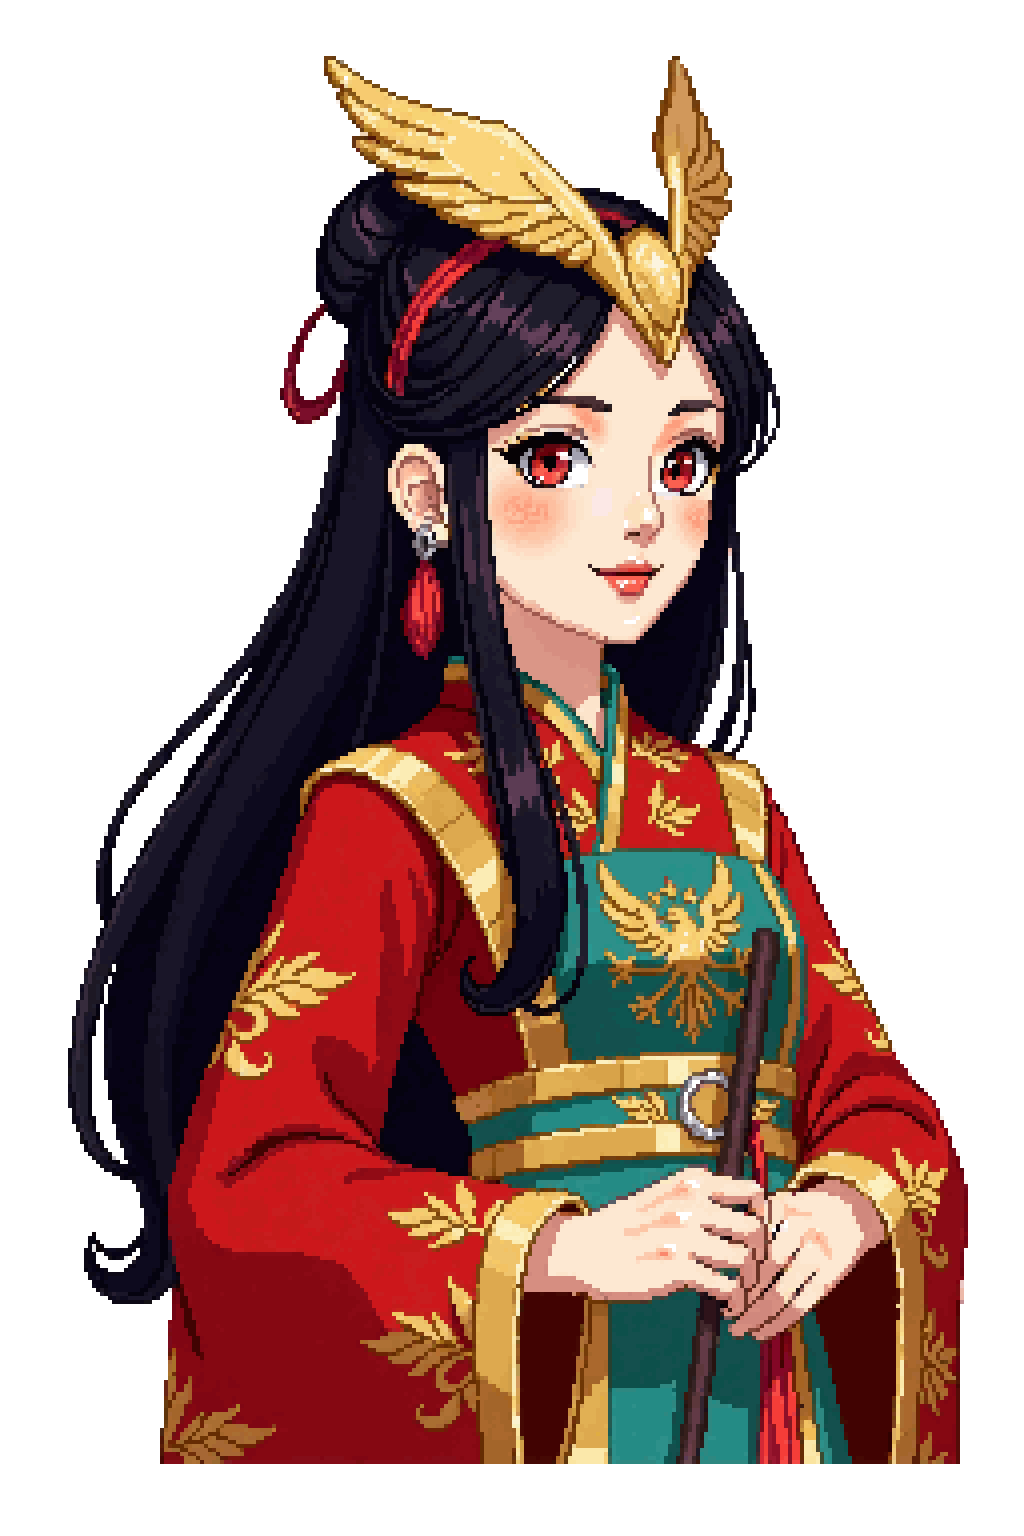
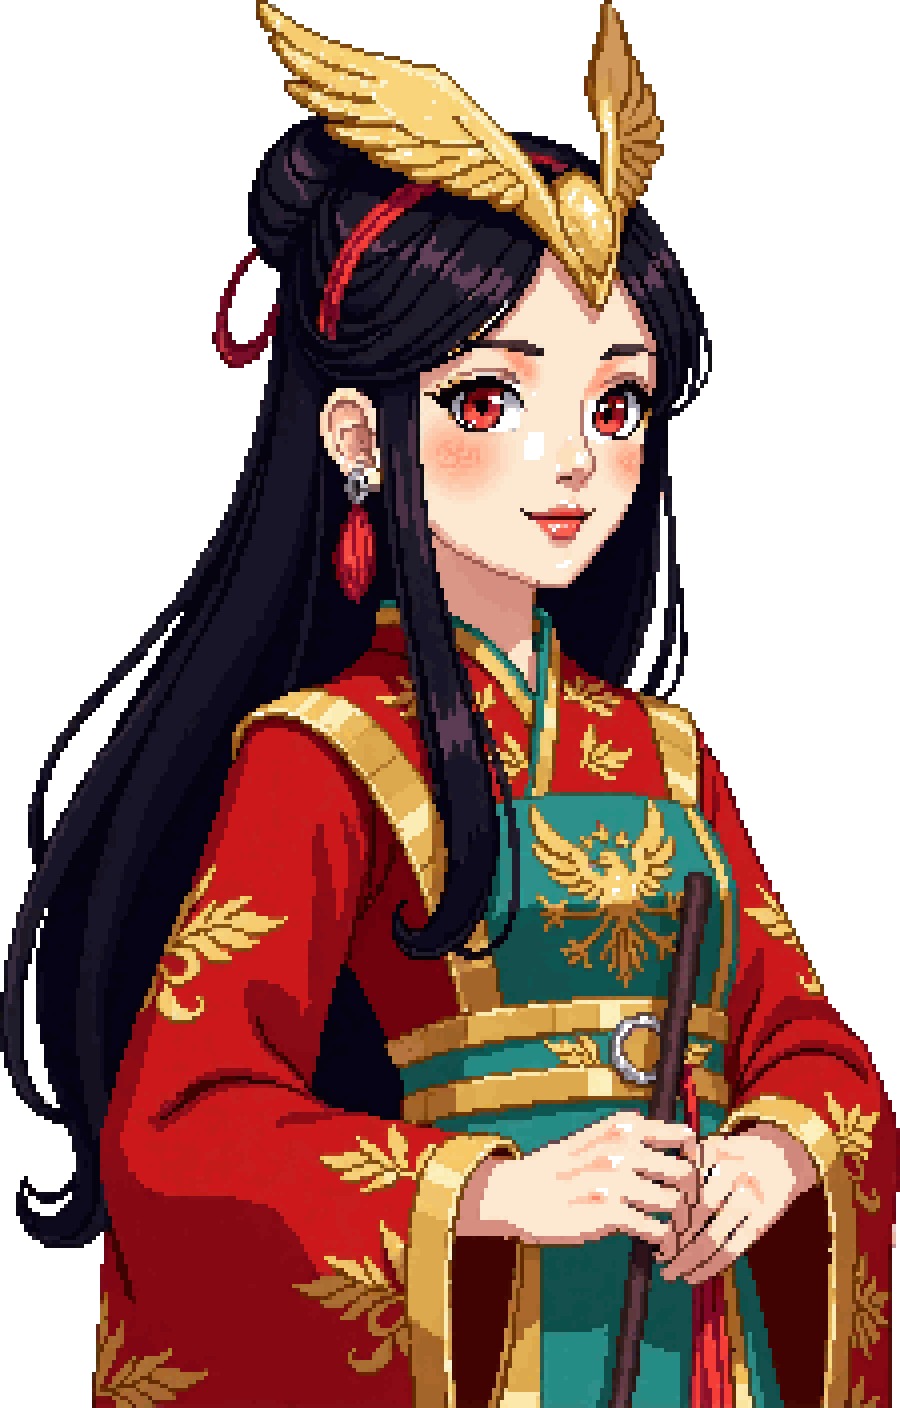
feat(mascot): v4 豐富天空 + 乾淨去背 + 超出螢幕底（解腰斬）
3 件改進：

1. 新 mainmenu_temple_v6.png：
   - PixFlux 400×224 ×4 = 1600×896
   - 月牙弦月 + 星空 + 粉紅 / 紫雲海 + 飛鳥剪影
   - 紅金 ornate 寺廟façade + 紅燈籠 + 兩側偏殿 + 山影
   - MainMenu.gd: PIXEL_BG_PATH v5 → v6

2. Bust 去背升級（pixellab_mainmenu_v6.py / clean_bust）：
   - 閾值 240 → 220 抓更多近白邊緣（Tongji 補抓 4720 像素、
     Luannu 補抓 3312 像素）
   - alpha.getbbox() auto-crop 角色 bbox（Tongji 1024×1536 →
     836×1368，Luannu → 900×1408）— 把上下空白裁掉

3. MascotPanel.gd HEIGHT_OVERSCAN = 1.15：
   - 半身像由螢幕高度 ×1.15 撐起 → 角色身體延伸到螢幕底以下
   - 配合 bbox-crop 後 character 占 100% 圖，視覺上 character
     從畫面上接近頂、向下站到螢幕外，杜絕「腰斬」感

整體效果：character 半身在前景全螢幕，溫泉雲彩 / 月色 / 廟宇從去背
邊緣透出，像 anime 立繪 lobby 般有沉浸感。

diff --git a/scripts/tools/pixellab_mainmenu_v6.py b/scripts/tools/pixellab_mainmenu_v6.py
@@ -1,0 +1,161 @@
+#!/usr/bin/env python3
+"""v6 改進三件事：
+1. 重生 mainmenu_temple bg（更豐富天空）→ mainmenu_temple_v6.png
+2. 改寫 bust 去背：閾值降至 220 + auto-crop 角色 bbox（去掉空白）
+3. 順便輸出去背預覽以驗證
+
+用法：PIXELLAB_API_KEY=... python3 scripts/tools/pixellab_mainmenu_v6.py
+"""
+
+from __future__ import annotations
+
+import base64
+import json
+import os
+import sys
+import time
+import urllib.error
+import urllib.request
+from io import BytesIO
+from pathlib import Path
+
+from PIL import Image
+
+ROOT = Path(__file__).resolve().parent.parent.parent
+OUT = ROOT / "assets" / "generated" / "pixellab"
+API_ROOT = "https://api.pixellab.ai/v1"
+
+key = os.environ.get("PIXELLAB_API_KEY", "").strip()
+if not key:
+    raise SystemExit("缺少 PIXELLAB_API_KEY")
+
+
+def post(path, payload):
+    data = json.dumps(payload).encode()
+    for attempt in range(3):
+        try:
+            req = urllib.request.Request(
+                f"{API_ROOT}{path}", data=data,
+                headers={"Authorization": f"Bearer {key}",
+                         "Content-Type": "application/json"},
+                method="POST",
+            )
+            with urllib.request.urlopen(req, timeout=600) as r:
+                return json.loads(r.read().decode())
+        except (TimeoutError, urllib.error.URLError) as e:
+            print(f"  ↻ retry: {e}")
+            time.sleep(5 * (attempt + 1))
+    raise RuntimeError("max retries")
+
+
+def b64dec(s):
+    if "," in s:
+        s = s.split(",", 1)[1]
+    return base64.b64decode(s)
+
+
+# ═════════════════════════════════════════════════════════════
+# 1. 重生 mainmenu temple bg（更豐富天空）
+# ═════════════════════════════════════════════════════════════
+
+TEMPLE_BG_PROMPT = (
+    "Wide-screen Taiwanese temple main menu background scene. The temple façade "
+    "in the bottom 60% with red and gold ornate roofs, layered green glazed tiles, "
+    "carved dragon ridges, hanging crimson lanterns lining the eaves, and tall red "
+    "pillars. The TOP 40% is a dramatic dusk sky: deep blue zenith fading to "
+    "burning orange and crimson at the horizon, scattered pink and violet "
+    "cloud bands, a few distant swallows in silhouette. Lantern glow lights the "
+    "courtyard, faint stars and a crescent moon high in the sky, gentle haze. "
+    "Detailed atmospheric pixel art, painterly, no characters, no text. "
+    "Composition designed for character mascot to stand in foreground."
+)
+
+
+def gen_temple_bg() -> None:
+    out = OUT / "mainmenu_temple_v6.png"
+    print(f"[1/2] {out.name}")
+    if out.exists():
+        print(f"   already exists, skip")
+        return
+    # PixFlux 上限：每邊 ≤ 400，area ≤ 160000
+    # 寬螢幕 16:9 → 400×224 = 89600 ✓，upscale ×4 = 1600×896
+    payload = {
+        "description": TEMPLE_BG_PROMPT,
+        "image_size": {"width": 400, "height": 224},
+        "text_guidance_scale": 9.0,
+        "no_background": False,
+    }
+    try:
+        resp = post("/generate-image-pixflux", payload)
+    except urllib.error.HTTPError as e:
+        print(f"   ✗ HTTP {e.code}: {e.read().decode()[:300]}")
+        return
+    png = b64dec(resp["image"]["base64"])
+    img = Image.open(BytesIO(png)).convert("RGBA")
+    up = img.resize((img.width * 4, img.height * 4), Image.NEAREST)
+    up.save(out, "PNG")
+    print(f"   ✓ {out} ({up.size})")
+
+
+# ═════════════════════════════════════════════════════════════
+# 2. 改寫 bust 去背：閾值 220 + auto-crop bbox
+# ═════════════════════════════════════════════════════════════
+
+BUST_FILES = [
+    "mascot_tongji_bust_v2.png",
+    "mascot_luannu_bust_v2.png",
+]
+
+# 先從原檔生（萬一被 v1 PIL 處理過已破壞），再應用更嚴的閾值
+# 但實際我們已有處理過的檔了；改用更低閾值 220 加處理 + auto-crop
+
+WHITE_THRESHOLD = 220  # 降低（v1 是 240）
+
+
+def clean_bust(path: Path) -> None:
+    print(f"[2/2] {path.name}")
+    img = Image.open(path).convert("RGBA")
+    w, h = img.size
+    pixels = img.load()
+
+    # 第一輪：白底→透明
+    removed = 0
+    for y in range(h):
+        for x in range(w):
+            r, g, b, a = pixels[x, y]
+            if r >= WHITE_THRESHOLD and g >= WHITE_THRESHOLD and b >= WHITE_THRESHOLD:
+                pixels[x, y] = (r, g, b, 0)
+                removed += 1
+    print(f"   removed {removed}px (threshold {WHITE_THRESHOLD})")
+
+    # 第二輪：找非透明像素 bbox（用 PIL 內建的 getbbox 較快）
+    # 但 getbbox 需要 alpha-only 圖；複製出 alpha channel 找
+    alpha = img.split()[3]
+    bbox = alpha.getbbox()
+    if bbox is None:
+        print("   ✗ no opaque pixels — 全透明？")
+        return
+    left, top, right, bottom = bbox
+    print(f"   bbox = ({left}, {top}, {right}, {bottom}) "
+          f"→ char size = {right-left}×{bottom-top}")
+    cropped = img.crop(bbox)
+    cropped.save(path, "PNG")
+    print(f"   ✓ saved cropped {cropped.size}")
+
+
+# ═════════════════════════════════════════════════════════════
+# 主流程
+# ═════════════════════════════════════════════════════════════
+
+if __name__ == "__main__":
+    print("════════════════════════════════════")
+    print("v6 main menu polish")
+    print("════════════════════════════════════")
+    gen_temple_bg()
+    print()
+    for f in BUST_FILES:
+        p = OUT / f
+        if p.exists():
+            clean_bust(p)
+        else:
+            print(f"   ✗ {p} not found")
